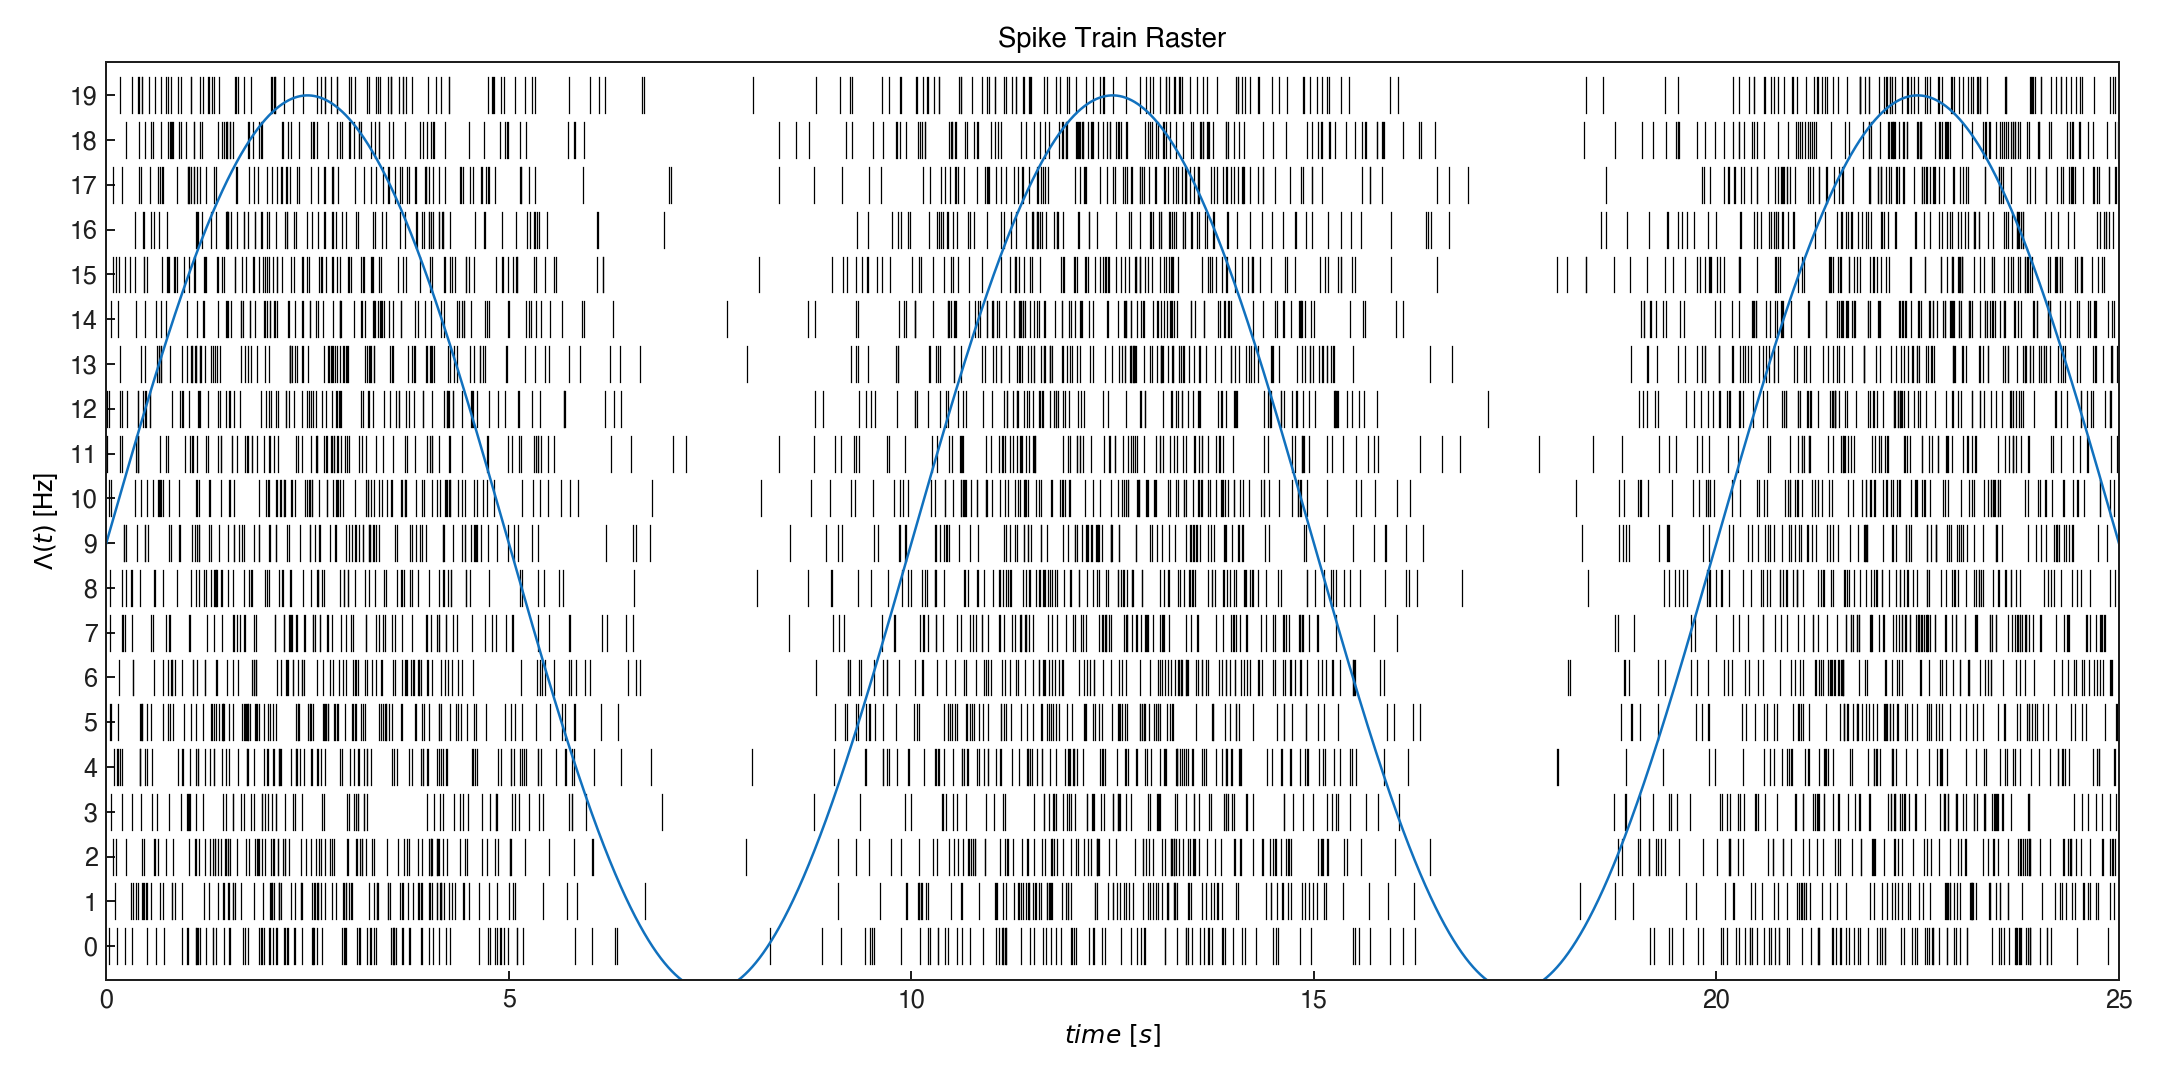
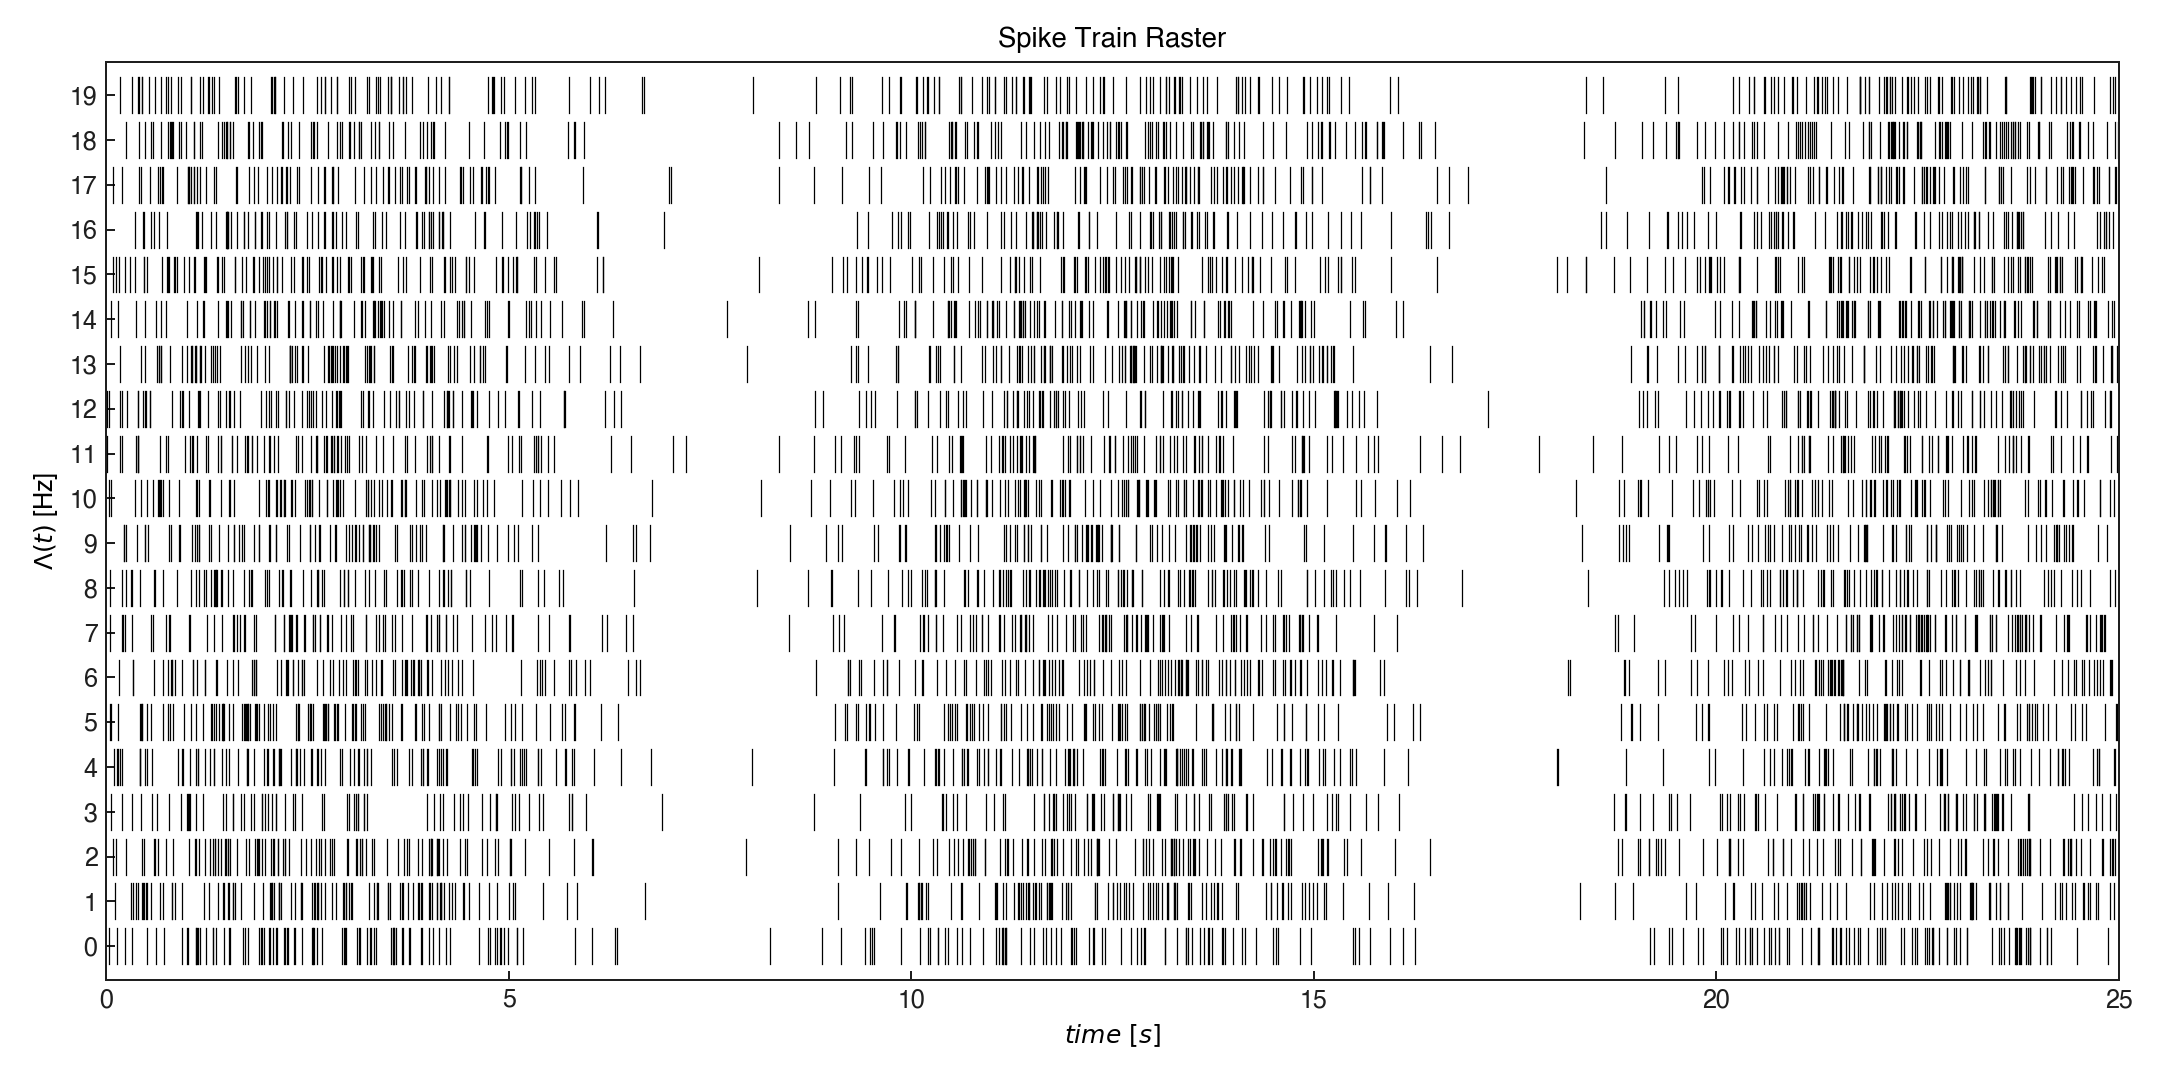
feat(parity): v8 iter 37 — surgical promotion attempts (6/10 matches, +1 from v7)
V8 Iter 37 of 38. Deep Reviewers per minor topic identified fixable vs
inherent residuals; surgical Builder fixes pushed 1 topic from minor →
matches.

## Reviewer findings (5 minor topics)

| Topic | Classification | Promotion likelihood |
|---|---|---|
| StimulusDecode2D | fixable | medium |
| PPThinning | fixable | high |
| ExplicitStimulusWhiskerData | fixable | high |
| nSTATPaperExamples | inherent | (no code change possible) |
| DecodingExample | inherent | low |

## Fixes applied

- StimulusDecode2D: removed Python-only posterior-density fig 5
- PPThinning: split fig 3 into two figures (figs 3 + 4) to mirror MATLAB MLX
- ExplicitStimulusWhiskerData: re-added second results.plotResults call

## Holistic verdicts after iter 37

| Topic | v7 | v8 |
|---|---|---|
| nstCollExamples | matches | matches |
| HippocampalPlaceCellExample | matches | matches |
| SignalObjExamples | matches | matches |
| NetworkTutorial | matches | matches |
| mEPSCAnalysis | matches | matches |
| **nSTATPaperExamples** | minor | **matches** ⬆️ |
| StimulusDecode2D | minor | minor |
| PPThinning | minor | minor |
| ExplicitStimulusWhiskerData | minor | minor |
| DecodingExample | minor | minor |

**6/10 matches** (was 5/10 at v7 end). +1 promotion (nSTATPaperExamples).

## Below v8 target

Plan called for ≥7/10. Achieved 6/10. The 3 fixable topics
(StimulusDecode2D, PPThinning, ExplicitStimulusWhiskerData) had fixes
applied but residual issues kept them at minor — composite ordering
[…]

diff --git a/docs/notebook_galleries/PPThinning/README.md b/docs/notebook_galleries/PPThinning/README.md
@@ -7,7 +7,7 @@ MATLAB-line annotations look like blank pages with code snippets and indicate th
 notebook is a MATLAB-helpfile port rather than a narrative example.
 
 - Source notebook: [`notebooks/PPThinning.ipynb`](../../notebooks/PPThinning.ipynb)
-- Figures: 3 (3 with substantive plot content)
+- Figures: 4 (4 with substantive plot content)
 
 ## Figures
 
@@ -22,3 +22,7 @@ notebook is a MATLAB-helpfile port rather than a narrative example.
 ### fig_003.png
 
 ![fig_003](./fig_003.png)
+
+### fig_004.png
+
+![fig_004](./fig_004.png)

diff --git a/docs/notebook_galleries/StimulusDecode2D/README.md b/docs/notebook_galleries/StimulusDecode2D/README.md
@@ -7,7 +7,7 @@ MATLAB-line annotations look like blank pages with code snippets and indicate th
 notebook is a MATLAB-helpfile port rather than a narrative example.
 
 - Source notebook: [`notebooks/StimulusDecode2D.ipynb`](../../notebooks/StimulusDecode2D.ipynb)
-- Figures: 6 (6 with substantive plot content)
+- Figures: 5 (5 with substantive plot content)
 
 ## Figures
 
@@ -30,7 +30,3 @@ notebook is a MATLAB-helpfile port rather than a narrative example.
 ### fig_005.png
 
 ![fig_005](./fig_005.png)
-
-### fig_006.png
-
-![fig_006](./fig_006.png)